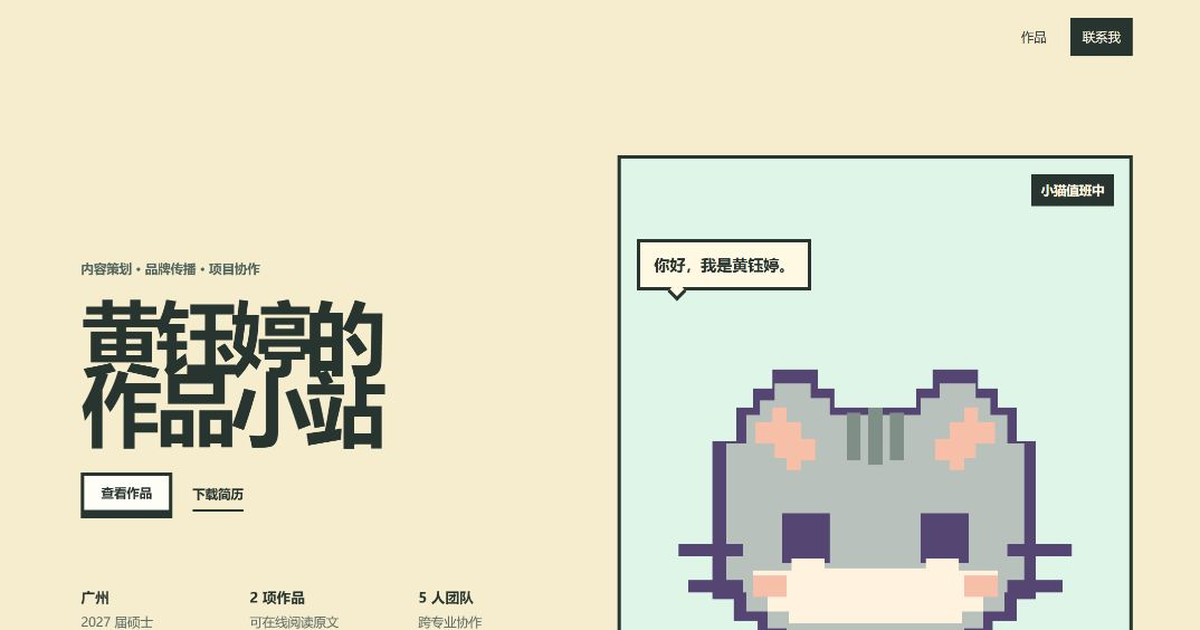
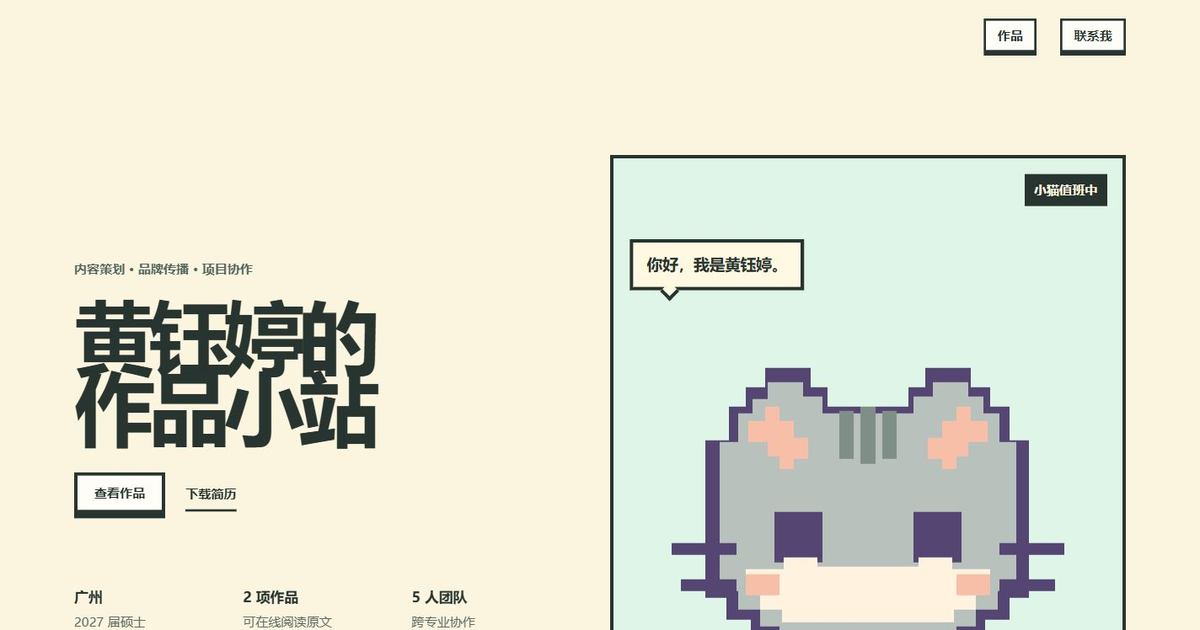
Refine navigation titles and contact layout

diff --git a/styles.css b/styles.css
@@ -1,7 +1,7 @@
 :root {
-  --cream: #f6edcf;
+  --cream: #fbf5df;
   --cream-light: #fff8e3;
-  --cream-deep: #e9ddbd;
+  --cream-deep: #eee4c9;
   --ink: #27342f;
   --mint: #bfe8cf;
   --mint-deep: #75b894;
@@ -129,37 +129,36 @@ svg {
   font-size: var(--text-sm);
 }
 
-.site-nav a:not(.nav-contact) {
-  position: relative;
+.site-nav a {
+  display: inline-flex;
+  min-height: 2.75rem;
+  align-items: center;
+  justify-content: center;
+  padding: 0.55rem 0.85rem;
+  border: 3px solid var(--ink);
+  border-bottom-width: 7px;
+  background: #fffdf7;
+  color: var(--ink);
+  font-weight: 700;
+  line-height: 1;
+  transition:
+    transform 140ms var(--ease),
+    border-width 140ms var(--ease),
+    background-color 140ms ease;
 }
 
-.site-nav a:not(.nav-contact)::after {
-  content: "";
-  position: absolute;
-  right: 0;
-  bottom: -0.25rem;
-  left: 0;
-  height: 0.24rem;
-  background: var(--lavender-deep);
-  transform: scaleX(0);
-  transform-origin: right;
-  transition: transform 180ms ease;
+.site-nav a:hover {
+  background: var(--cream-light);
+  transform: translateY(-1px);
 }
 
-.site-nav a:not(.nav-contact):hover::after,
-.site-nav a:not(.nav-contact):focus-visible::after {
-  transform: scaleX(1);
-  transform-origin: left;
+.site-nav a:active {
+  border-bottom-width: 3px;
+  transform: translateY(4px);
 }
 
-.nav-contact {
-  padding: 0.62rem 0.9rem;
-  background: var(--ink);
-  color: var(--cream-light);
-}
-
-.nav-contact:hover {
-  background: var(--lavender-deep);
+.site-nav .nav-contact {
+  color: var(--ink);
 }
 
 .hero {
@@ -456,7 +455,7 @@ svg {
 .project h3 {
   max-width: none;
   font-family: var(--font-display);
-  font-size: clamp(2rem, 1.2rem + 2.1vw, 3.5rem);
+  font-size: clamp(1.8rem, 1.2rem + 1.8vw, 3rem);
   font-weight: 800;
   letter-spacing: -0.06em;
   line-height: 1.10;
@@ -616,7 +615,7 @@ svg {
 
 .toolbox {
   padding-block: var(--section-space);
-  background: #eee7f8;
+  background: #fcf8ef;
 }
 
 .section-heading--light > p {
@@ -724,7 +723,7 @@ svg {
   display: grid;
   grid-template-columns: minmax(0, 1.15fr) minmax(19rem, 0.85fr);
   gap: clamp(3rem, 8vw, 8rem);
-  align-items: end;
+  align-items: start;
 }
 
 .contact h2 {
@@ -1009,7 +1008,7 @@ svg {
   }
 
   .nav-contact {
-    padding: 0.38rem 0.6rem;
+    padding: 0.55rem 0.85rem;
   }
 
   .hero {

diff --git a/index.html b/index.html
@@ -94,8 +94,7 @@
       <div class="container">
         <article class="project project--article">
           <div class="project-copy">
-            <p class="project-kind">内容策划 / 美术编辑 · 2021</p>
-            <h3>推文链接</h3>
+            <h3>内容策划 / 美术编辑 · 2021</h3>
             <ul class="project-points">
               <li>完成选题主题与内容结构梳理</li>
               <li>承担美术编辑与整体图文编排</li>
@@ -135,8 +134,7 @@
 
         <article class="project project--plan">
           <div class="project-copy">
-            <p class="project-kind">产品策划 / 市场调研 · 校内第 27 名</p>
-            <h3>“三只松鼠”休闲食品竞赛策划书链接</h3>
+            <h3>产品策划 / 市场调研 · 校内第 27 名</h3>
             <ul class="project-points">
               <li>调研健康零食消费趋势，明确产品卖点</li>
               <li>参与概念与策划书，协调 5 人跨专业团队</li>
@@ -206,7 +204,7 @@
     <section class="contact" id="contact" aria-labelledby="contact-title">
       <div class="container contact-grid">
         <div>
-          <h2 id="contact-title">CONTACT</h2>
+          <h2 id="contact-title">联系我吧</h2>
         </div>
         <div class="contact-panel">
           <a class="contact-email" href="mailto:13289885620@163.com">13289885620@163.com</a>
